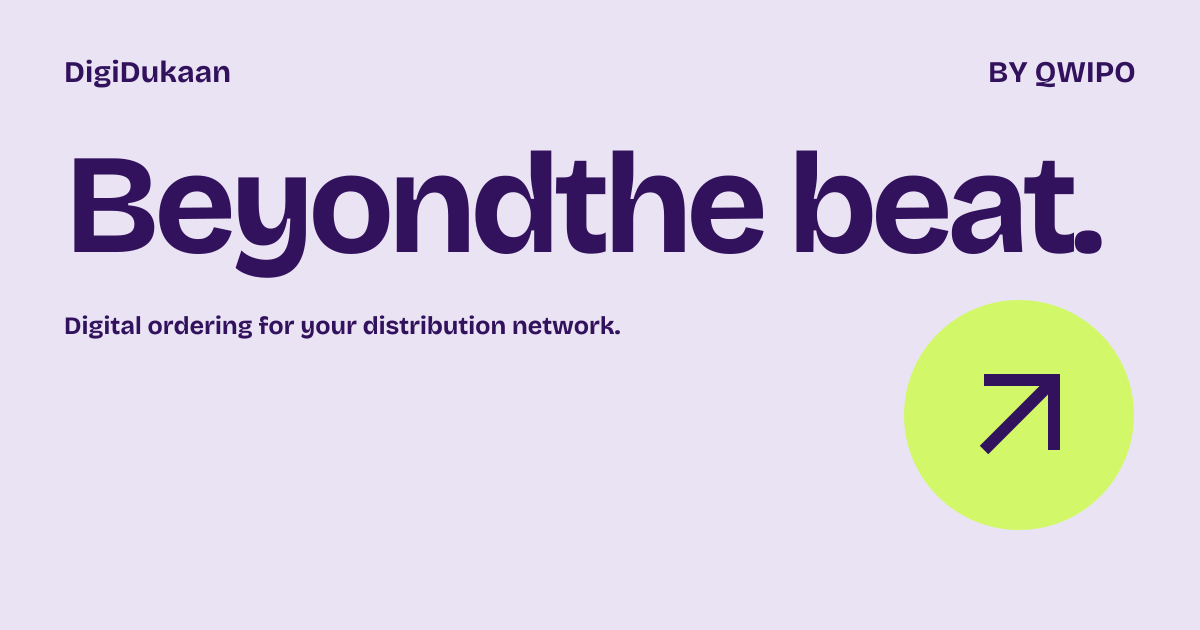
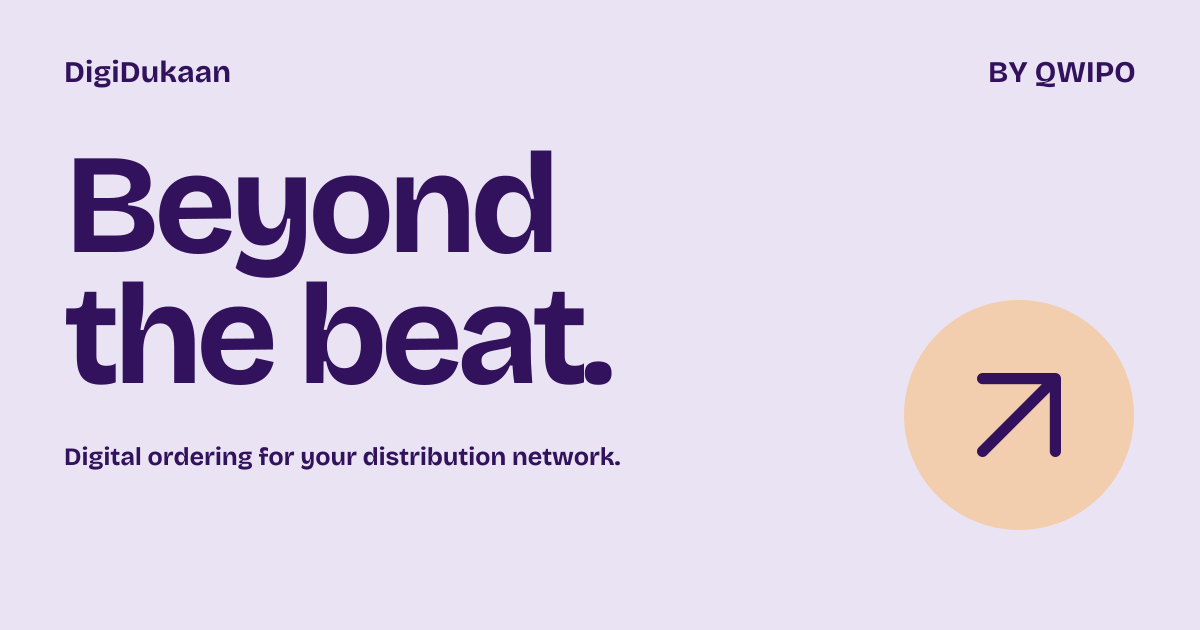
Refine DigiDukaan accent palette with warm apricot

diff --git a/apps/frontend/rirn/src/index.css b/apps/frontend/rirn/src/index.css
@@ -23,7 +23,7 @@
   --violet: #6c3bc8;
   --lilac: #eae3f4;
   --paper: #faf9f5;
-  --lime: #d2f86a;
+  --accent: #f2ceae;
   --dark: #1d122a;
   --line: rgba(50, 18, 92, 0.2);
   --muted: #655772;
@@ -48,7 +48,7 @@ body {
 }
 ::selection {
   color: var(--ink);
-  background: var(--lime);
+  background: var(--accent);
 }
 a {
   color: inherit;
@@ -151,7 +151,7 @@ section[id] {
   top: 12px;
   left: 20px;
   padding: 12px 18px;
-  background: var(--lime);
+  background: var(--accent);
   color: var(--ink);
   translate: 0 -200%;
   border-radius: 4px;
@@ -416,7 +416,7 @@ section[id] {
   position: absolute;
   inset: 0;
   z-index: -1;
-  background: var(--lime);
+  background: var(--accent);
   transform: translateX(-101%);
   transition: transform 0.4s var(--ease);
   border-radius: inherit;
@@ -455,7 +455,7 @@ section[id] {
   scale: 0.98;
 }
 .action-light {
-  background: var(--lime);
+  background: var(--accent);
   color: var(--ink);
 }
 .hero-secondary {
@@ -563,7 +563,7 @@ section[id] {
   align-items: center;
   justify-content: center;
   font-size: 31px;
-  background: var(--lime);
+  background: var(--accent);
   border-radius: 50%;
 }
 .art-coordinate {
@@ -648,7 +648,7 @@ section[id] {
   position: absolute;
   left: 0;
   bottom: 0;
-  background: var(--lime);
+  background: var(--accent);
   padding: 20px 25px;
   width: 210px;
   font-family: var(--font-display);
@@ -788,7 +788,7 @@ section[id] {
   white-space: nowrap;
 }
 .product-stage-word > span:last-child {
-  color: var(--lime);
+  color: var(--accent);
 }
 .product-phone {
   width: 100%;
@@ -824,7 +824,7 @@ section[id] {
   color: var(--paper);
 }
 .product-stage-label .status-dot {
-  background: var(--lime);
+  background: var(--accent);
 }
 .product-copy h2 {
   font-size: clamp(45px, 4.7vw, 72px);
@@ -923,7 +923,7 @@ section[id] {
     90deg,
     transparent,
     var(--violet) 45%,
-    var(--lime)
+    var(--accent)
   );
 }
 .journey-steps {
@@ -965,7 +965,7 @@ section[id] {
   position: absolute;
   inset: auto -2px -3px;
   height: 7px;
-  background: var(--lime);
+  background: var(--accent);
   opacity: 0;
   transform-origin: left;
   z-index: -1;
@@ -1029,9 +1029,9 @@ section[id] {
   background: linear-gradient(
     110deg,
     transparent 15%,
-    #d2f86a24 35%,
+    color-mix(in srgb, var(--accent) 14%, transparent) 35%,
     #ffffff40 50%,
-    #d2f86a24 65%,
+    color-mix(in srgb, var(--accent) 14%, transparent) 65%,
     transparent 85%
   );
 }
@@ -1109,7 +1109,7 @@ section[id] {
   justify-content: center;
   width: 100px;
   height: 100px;
-  background: var(--lime);
+  background: var(--accent);
   border-radius: 50%;
   rotate: 8deg;
 }
@@ -1136,7 +1136,7 @@ section[id] {
   letter-spacing: 0.11em;
 }
 .tiny-route {
-  color: var(--lime);
+  color: var(--accent);
   letter-spacing: 2px;
   font-size: 14px;
 }
@@ -1150,8 +1150,8 @@ section[id] {
   line-height: 0.91;
   letter-spacing: -0.055em;
 }
-.lime {
-  color: var(--lime);
+.accent-text {
+  color: var(--accent);
 }
 .contact-description {
   font-size: 15px;
@@ -1212,7 +1212,7 @@ section[id] {
   opacity: 0;
 }
 .role-options label:has(input:focus-visible) {
-  outline: 2px solid var(--lime);
+  outline: 2px solid var(--accent);
   outline-offset: 4px;
 }
 .radio-mark {
@@ -1255,7 +1255,7 @@ section[id] {
   min-height: 66px;
   margin-top: 30px;
   padding: 15px 23px;
-  background: var(--lime);
+  background: var(--accent);
   color: var(--ink);
   border-radius: 4px;
   font-size: 16px;
@@ -1347,7 +1347,7 @@ section[id] {
     translate 0.2s;
 }
 .back-top:hover {
-  background: var(--lime);
+  background: var(--accent);
   translate: 0 -4px;
 }
 .footer-wordmark {
@@ -1404,7 +1404,7 @@ section[id] {
   background: currentColor;
 }
 .motion-control:hover {
-  background: var(--lime);
+  background: var(--accent);
 }
 .motion-control[disabled] {
   opacity: 0.9;
@@ -1413,7 +1413,7 @@ section[id] {
   position: fixed;
   inset: 0;
   background: var(--ink);
-  color: var(--lime);
+  color: var(--accent);
   z-index: 90;
   transform: translateY(-100%);
   display: flex;
@@ -2767,7 +2767,8 @@ html[data-motion="reduced"] *::after {
     translate 0.25s;
 }
 .device-controls button[aria-pressed="true"] {
-  background: var(--lime);
+  background: var(--accent);
+  border-color: var(--ink);
 }
 .device-controls button:hover {
   translate: 0 -3px;
@@ -2928,7 +2929,7 @@ html[data-motion="reduced"] *::after {
   width: 72px;
   height: 72px;
   border-radius: 20px;
-  background: var(--lime);
+  background: var(--accent);
   display: grid;
   place-items: center;
   z-index: 2;
@@ -3037,7 +3038,7 @@ html[data-motion="reduced"] *::after {
   transition: translate 0.25s;
 }
 .story-navigation button:hover {
-  background: var(--lime);
+  background: var(--accent);
   color: var(--ink);
 }
 .story-navigation button:hover > span {

diff --git a/apps/frontend/rirn/src/components/Logistics.tsx b/apps/frontend/rirn/src/components/Logistics.tsx
@@ -144,7 +144,7 @@ export function Logistics({ compact = false }: { compact?: boolean }) {
               width="152"
               height="56"
               rx="28"
-              fill={!partner ? "#d2f86a" : "#eae3f4"}
+              fill={!partner ? "var(--accent)" : "#eae3f4"}
             />
             <text x="320" y="90" textAnchor="middle">
               Own fleet
@@ -155,7 +155,7 @@ export function Logistics({ compact = false }: { compact?: boolean }) {
               width="152"
               height="56"
               rx="28"
-              fill={partner ? "#d2f86a" : "#eae3f4"}
+              fill={partner ? "var(--accent)" : "#eae3f4"}
             />
             <text x="320" y="240" textAnchor="middle">
               3PL capacity

diff --git a/apps/frontend/rirn/src/components/Contact.tsx b/apps/frontend/rirn/src/components/Contact.tsx
@@ -25,7 +25,7 @@ export function Contact() {
         <div>
           <h2 id={`${id}-title`} data-reveal>
             {site.contact.heading.map((line, i) => (
-              <span key={line} className={i === 2 ? "lime" : ""}>
+              <span key={line} className={i === 2 ? "accent-text" : ""}>
                 {line}{" "}
               </span>
             ))}

diff --git a/apps/frontend/rirn/src/components/RouteArtwork.tsx b/apps/frontend/rirn/src/components/RouteArtwork.tsx
@@ -61,7 +61,7 @@ export function RouteArtwork() {
               width="36"
               height="36"
               rx="10"
-              fill="#D2F86A"
+              fill="var(--accent)"
               stroke="#32125C"
               strokeWidth="1.5"
             />

diff --git a/apps/frontend/rirn/docs/source/DESIGN.md b/apps/frontend/rirn/docs/source/DESIGN.md
@@ -21,11 +21,11 @@ Selected: Beyond the beat. The word beat belongs to distribution, and the moving
 - Signature: A moving order travels through a route diagram as the product journey unfolds. The same advancing line, circle and arrow appear in section markers, controls and navigation.
 - Emotion: Optimistic, capable, human. Enterprise technology with the energy of everyday commerce.
 - Motion verb: Advance. Lines draw forward, text rises into place, arrows travel, product imagery gently changes angle with progress.
-- Screenshot: Oversized dark-violet typography on a pale lilac field, a real DigiDukaan phone at an angle, and a lime order marker on a continuous route.
+- Screenshot: Oversized dark-violet typography on a pale lilac field, a real DigiDukaan phone at an angle, and a warm apricot order marker on a continuous route.
 
 ## Design system
 
-- Violet ink #32125C; violet field #6C3BC8; pale lilac #EAE3F4; warm paper #FAF9F5; lime accent #D2F86A; dark plum #1D122A.
+- Violet ink #32125C; violet field #6C3BC8; pale lilac #EAE3F4; warm paper #FAF9F5; warm apricot accent #F2CEAE; dark plum #1D122A.
 - Bricolage Grotesque variable display, DM Sans variable body, both self-hosted WOFF2. Fluid display 64–176px; body 16–20px; labels 11–13px.
 - Desktop 12-column layout, 48–64px gutters; mobile four-column logic, 22px gutters. Wide content capped at 1760px.
 - Mostly squared editorial sections. Rounded ends reserved for route nodes, action buttons and the product stage. No repeated card grid.
@@ -117,3 +117,12 @@ The screenshot disclaimer has a 12px type size and ink colour. Production checks
 The product exhibit now advances a pair of real phone frames around an invisible centre below the violet panel. On every screen change, the outgoing phone curves down and right while the incoming phone curves up from the left; both tilt with the circle and move simultaneously. This choreography is explicitly confirmed by the user and applies to automatic and manual changes.
 
 The existing Next.js, React and GSAP stack keeps this scoped animation in its own client component. One timeline rotates both phones around the same measured centre. A clipped preview area protects the fixed headline and controls. Screen images retain embedded previews and progressive loading; the next automatic screen preloads after the current image is ready. Rapid selections queue the latest destination without creating more moving phones. Pause and off-screen cleanup settle to a readable selected screen. This replaces the product exhibit's prior scroll tilt and floating fade; the hero animation is separate.
+
+
+## Revision: a softer secondary colour
+
+The fluorescent lime is replaced by warm apricot (#F2CEAE). This keeps violet as the dominant brand field and gives actions and order markers a warmer, quieter character suited to the existing product and field imagery. Soft sage was considered but weakened the warm/cool separation; muted amber felt too yellow beside the lilac. Apricot preserves a clear secondary role without the fluorescent effect.
+
+The semantic `--accent` token now drives buttons, selected screens, route arrows, stage highlights, the journey shimmer, enquiry highlights and focus details. The favicon and sharing image use the same colour. Selected phone controls also receive a violet-ink border so the softer fill remains easy to distinguish from neighbouring paper buttons. Original product screenshots and supplied brand assets retain their source colours. Earlier revision descriptions of lime document the previous palette.
+
+Contrast ratios: violet ink on apricot 10.33:1, apricot on violet 4.59:1, and apricot on dark plum 12.13:1. Apricot is a fill or decorative highlight on light backgrounds, never small text on paper. Layout, choreography and animation timings are unchanged.

diff --git a/apps/frontend/rirn/README.md b/apps/frontend/rirn/README.md
@@ -1,7 +1,7 @@
 # Qwipo-WebApp — DigiDukaan by Qwipo
 
 This application replaces the RIRN company discovery console. It presents the DigiDukaan product website for brands and distributors.
-The source is `/Users/4nshuman/Development/Qwipo-WebApp`. That source folder is unchanged.
+The source is `/Users/4nshuman/Development/Qwipo-WebApp`. Website refinements are mirrored into this Vite application while preserving its deployment-specific routing and assets.
 
 The existing deployment identity is retained:
 
@@ -108,3 +108,10 @@ The build still runs `@mockups/rirn` and copies `dist/` into nginx.
 After an authorized merge and push to a deployment branch, this website replaces the company console in that branch's environment. The pipeline names continue to say RIRN Company.
 Do not rename the package, service, folder, or pipeline as an incidental cleanup.
 No commit, push, pipeline run, or remote deployment is part of local preparation.
+
+
+## Secondary colour refinement
+
+The website now uses warm apricot (`#F2CEAE`) in place of fluorescent lime. The semantic `--accent` token covers controls, route markers, logistics capacity highlights, enquiry emphasis and shimmer. Selected phone controls have a dark violet border. The favicon and static sharing image match the new accent. Motion timings, original product screenshots and deployment configuration are unchanged.
+
+The source site's desktop/mobile visual review found no reported axe violations; measured accent contrast is 10.33:1 against violet ink, 4.59:1 against the violet field and 12.13:1 against dark plum. Some automated SVG/decorative checks remain incomplete. Independent colour review: 8/10, with no colour blockers. Repository validation uses the scoped lint/typecheck/build command above.
